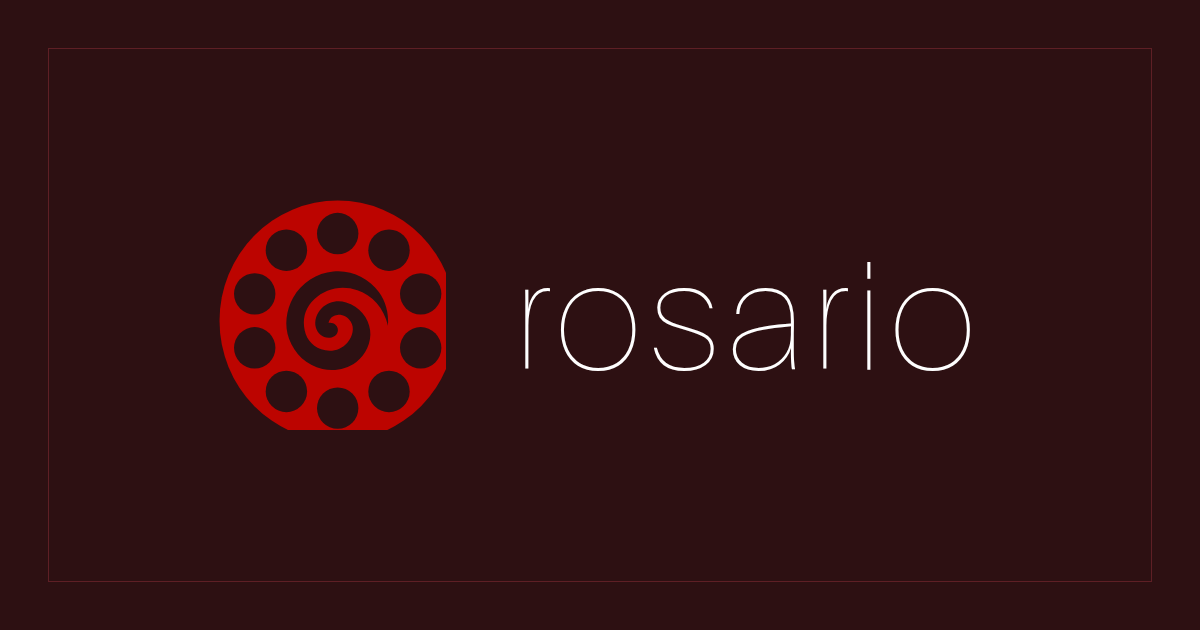
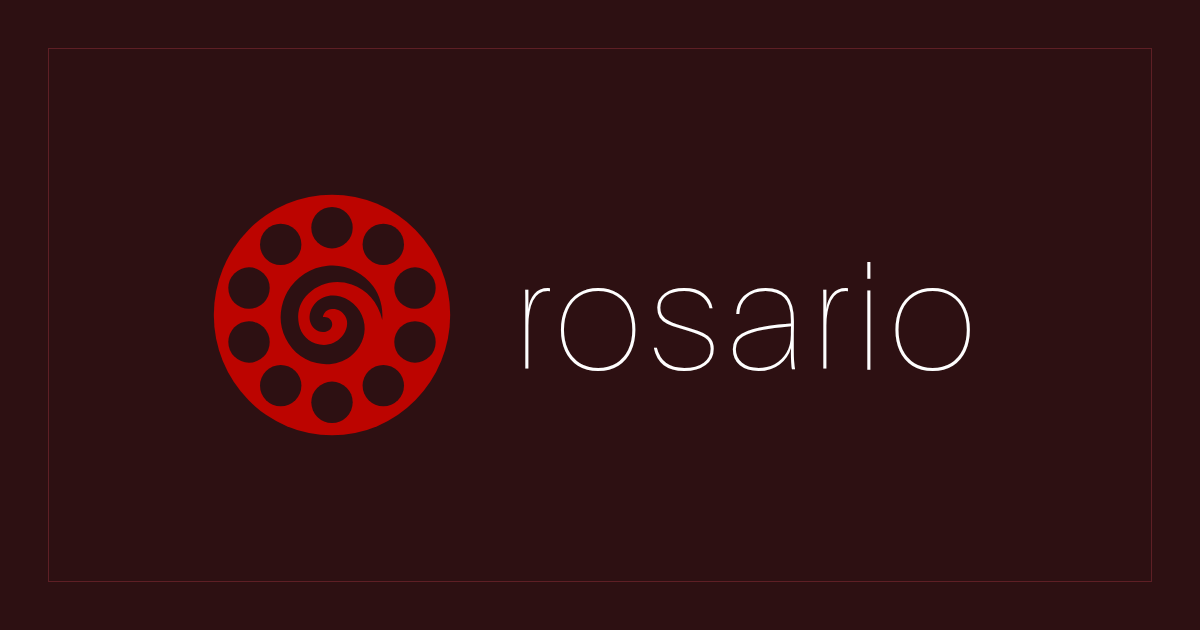
Fix the og dial rim clipping: recenter the transform on the disc center
The shipped render clipped the disc's right and bottom rims flat at the img
edge (bbox 224px wide vs the true 236px circle). The transform now centers
on the disc center (translate(130 130) scale(0.2647) translate(-505.5 -512.5));
pixel-verified: radial extent 118-120 across all sectors = full circle, dial
x 214-449, 77px gap to the wordmark.

Changed region(s): [[0.1542, 0.3016, 0.4008, 0.6937]]

diff --git a/frontend/og-wrapper.html b/frontend/og-wrapper.html
@@ -4,7 +4,7 @@
 html, body { margin: 0; }
 .canvas { position: relative; width: 1200px; height: 630px; background: #2d1012; }
 .frame { position: absolute; inset: 48px; border: 1px solid #5e1f25; }
-.mark { position: absolute; left: 186px; top: 170px; width: 260px; height: 260px; }
+.mark { position: absolute; left: 202px; top: 185px; width: 260px; height: 260px; }
 .word { position: absolute; left: 512px; top: 240px; top: 50%; transform: translateY(-50%); font-family: "PlainHair", sans-serif; font-size: 150px; letter-spacing: 4px; color: #fefefe; line-height: 1; }
 </style></head>
 <body><div class="canvas">
